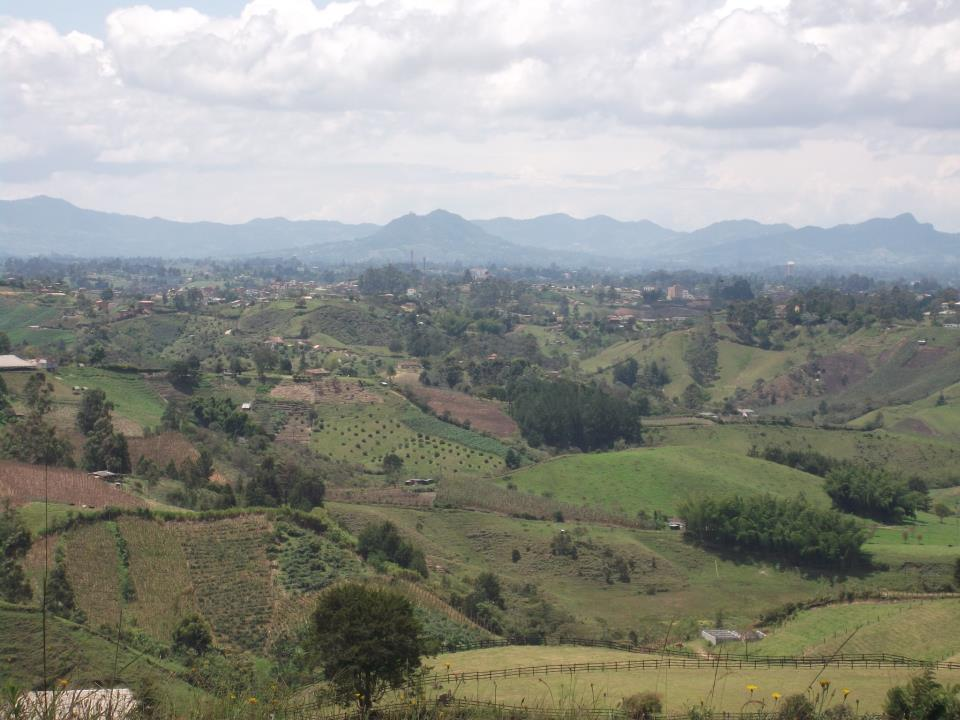
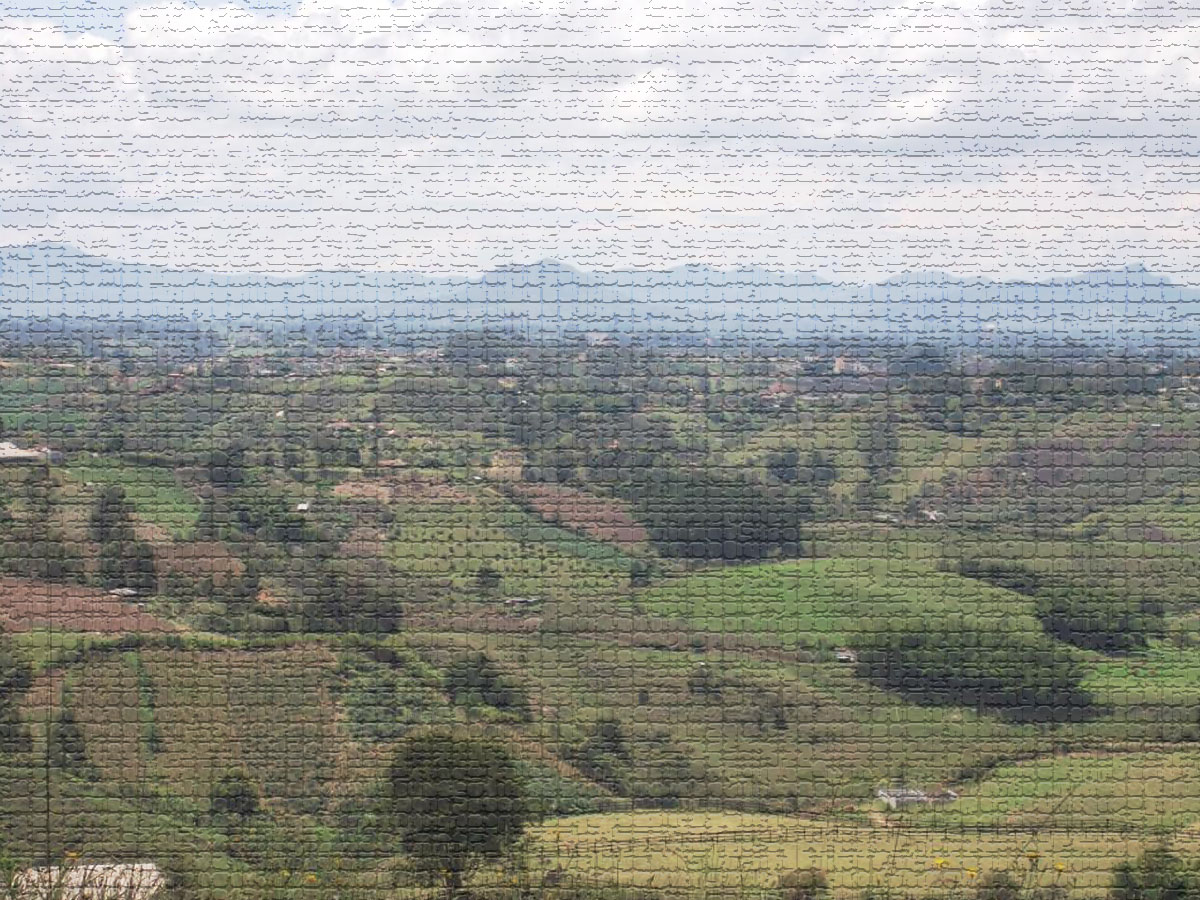
Pequeña actualización para fondo de Aeroglass

Changed region(s): [[0.0, 0.0, 1.0, 1.0], [0.5938, 0.0611, 0.6562, 0.1528], [0.5938, 0.0, 0.6562, 0.0611]]

diff --git a/aeroglas/Aeroglass/assets/css/main.css b/aeroglas/Aeroglass/assets/css/main.css
@@ -2507,10 +2507,10 @@
 
 	#header {
 		background-attachment: scroll,							scroll,					fixed;
-		background-image: url("images/top-3200.svg"), url("images/overlay.png"), url("../../images/header.jpg");
-		background-position: bottom center,					top left,				center center;
-		background-repeat: repeat-x,						repeat,					no-repeat;
-		background-size: 3200px 460px,					auto,					cover;
+		background-image: url("images/top-3200.svg"), url("images/overlay2.jpg"), url("../../images/header.jpg");
+		background-position: bottom center,					center center,				center center;
+		background-repeat: repeat-x,						no-repeat,					no-repeat;
+		background-size: 3200px 460px,					cover,					cover;
 		color: rgba(255, 255, 255, 0.8);
 		padding: 10em 0 20em 0;
 		position: relative;
